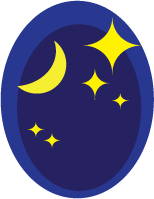
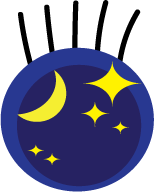
more fun faces

diff --git a/Components/Photo.js b/Components/Photo.js
@@ -186,25 +186,27 @@ const Photo = props => {
                   zIndex: 100
                 }}
                 source={nose}
+                resizeMode="contain"
               />
               <Image
                 style={{
                   width: 80,
-                  height: 90,
+                  height: 100,
                   position: 'absolute',
                   top:
                     (face.rightEyePosition.y / activeImage.height) * 550 - 50,
                   left:
-                    (face.rightEyePosition.x / activeImage.width) * 400 - 20,
+                    (face.rightEyePosition.x / activeImage.width) * 400 - 10,
                   transform: [{rotate: `${face.rollAngle * -1}deg` || '0deg'}],
                   zIndex: 98
                 }}
                 source={rightEye}
+                resizeMode="contain"
               />
               <Image
                 style={{
                   width: 80,
-                  height: 90,
+                  height: 100,
                   position: 'absolute',
                   top: (face.leftEyePosition.y / activeImage.height) * 550 - 50,
                   left: (face.leftEyePosition.x / activeImage.width) * 400 - 60,
@@ -212,21 +214,23 @@ const Photo = props => {
                   zIndex: 90
                 }}
                 source={leftEye}
+                resizeMode="contain"
               />
               <Image
                 style={{
-                  width: 120,
-                  height: 60,
+                  width: 150,
+                  height: 55,
                   position: 'absolute',
                   top:
                     (face.bottomMouthPosition.y / activeImage.height) * 550 -
-                    50,
+                    35,
                   left:
                     (face.bottomMouthPosition.x / activeImage.width) * 400 - 60,
                   transform: [{rotate: `-${face.rollAngle}deg` || '0deg'}],
                   zIndex: 99
                 }}
                 source={mouth}
+                resizeMode="contain"
               />
               {/* <View
                 style={{
@@ -258,29 +262,19 @@ const Photo = props => {
                 </Button>
                 <Button
                   onPress={() => {
-                    setLeftEye(require('../assets/lefteyeb.png'))
-                    setRightEye(require('../assets/righteyeb.png'))
-                    setNose(require('../assets/nose.png'))
-                    setMouth(require('../assets/mouth.png'))
-                  }}
-                >
-                  <Icon type="Entypo" name="shuffle" />
-                </Button>
-                <Button
-                  onPress={() => {
-                    setLeftEye('../assets/heart.png')
-                    setRightEye('../assets/heart.png')
+                    setLeftEye(require('../assets/heart.png'))
+                    setRightEye(require('../assets/heart.png'))
                     setNose(require('../assets/clear.png'))
-                    setMouth(require('../assets/clear.png'))
+                    setMouth(require('../assets/rosem.png'))
                   }}
                 >
                   <Icon type="Entypo" name="heart" />
                 </Button>
                 <Button
                   onPress={() => {
-                    setLeftEye(require('../assets/clear.png'))
-                    setRightEye(require('../assets/clear.png'))
-                    setNose(require('../assets/clear.png'))
+                    setLeftEye(require('../assets/lefteyeb.png'))
+                    setRightEye(require('../assets/righteyeb.png'))
+                    setNose(require('../assets/nose.png'))
                     setMouth(require('../assets/mouth.png'))
                   }}
                 >
@@ -289,7 +283,7 @@ const Photo = props => {
                 <Button
                   onPress={() => {
                     setLeftEye(require('../assets/lefteyeb.png'))
-                    setRightEye(require('../assets/righteyeb.png'))
+                    setRightEye(require('../assets/winkright.png'))
                     setNose(require('../assets/nose.png'))
                     setMouth(require('../assets/mouth.png'))
                   }}
@@ -301,7 +295,7 @@ const Photo = props => {
                     setLeftEye(require('../assets/shinyeye.png'))
                     setRightEye(require('../assets/shinyeye.png'))
                     setNose(require('../assets/clear.png'))
-                    setMouth(require('../assets/clear.png'))
+                    setMouth(require('../assets/animem.png'))
                   }}
                 >
                   <Icon type="Entypo" name="eye" />
@@ -364,6 +358,10 @@ const Photo = props => {
           <Button onPress={() => props.history.push('/')}>
             <Icon ios="ios-home" android="md-home" />
             <Text>Home</Text>
+          </Button>
+          <Button onPress={() => props.history.push('/camera')}>
+            <Icon ios="ios-camera" android="md-camera" />
+            <Text>Camera</Text>
           </Button>
         </FooterTab>
       </Footer>

diff --git a/Components/Main.js b/Components/Main.js
@@ -1,6 +1,15 @@
 import React from 'react'
 import {View} from 'react-native'
-import {Container, Header, Content, Button, Text} from 'native-base'
+import {
+  Container,
+  Header,
+  Content,
+  Button,
+  Text,
+  Footer,
+  FooterTab,
+  Icon
+} from 'native-base'
 
 import styles from '../styles'
 
@@ -26,6 +35,19 @@ const Main = props => {
           <Text> Gallery </Text>
         </Button>
       </Content>
+      <Footer>
+        <FooterTab>
+          <Button onPress={() => props.history.push('/')}>
+            <Icon ios="ios-heart" android="md-heart" />
+          </Button>
+          <Button onPress={() => props.history.push('/camera')}>
+            <Icon ios="ios-camera" android="md-camera" />
+          </Button>
+          <Button onPress={() => props.history.push('/photo')}>
+            <Icon ios="ios-images" android="md-photos" />
+          </Button>
+        </FooterTab>
+      </Footer>
     </Container>
 
     // <View style={styles.container}>
